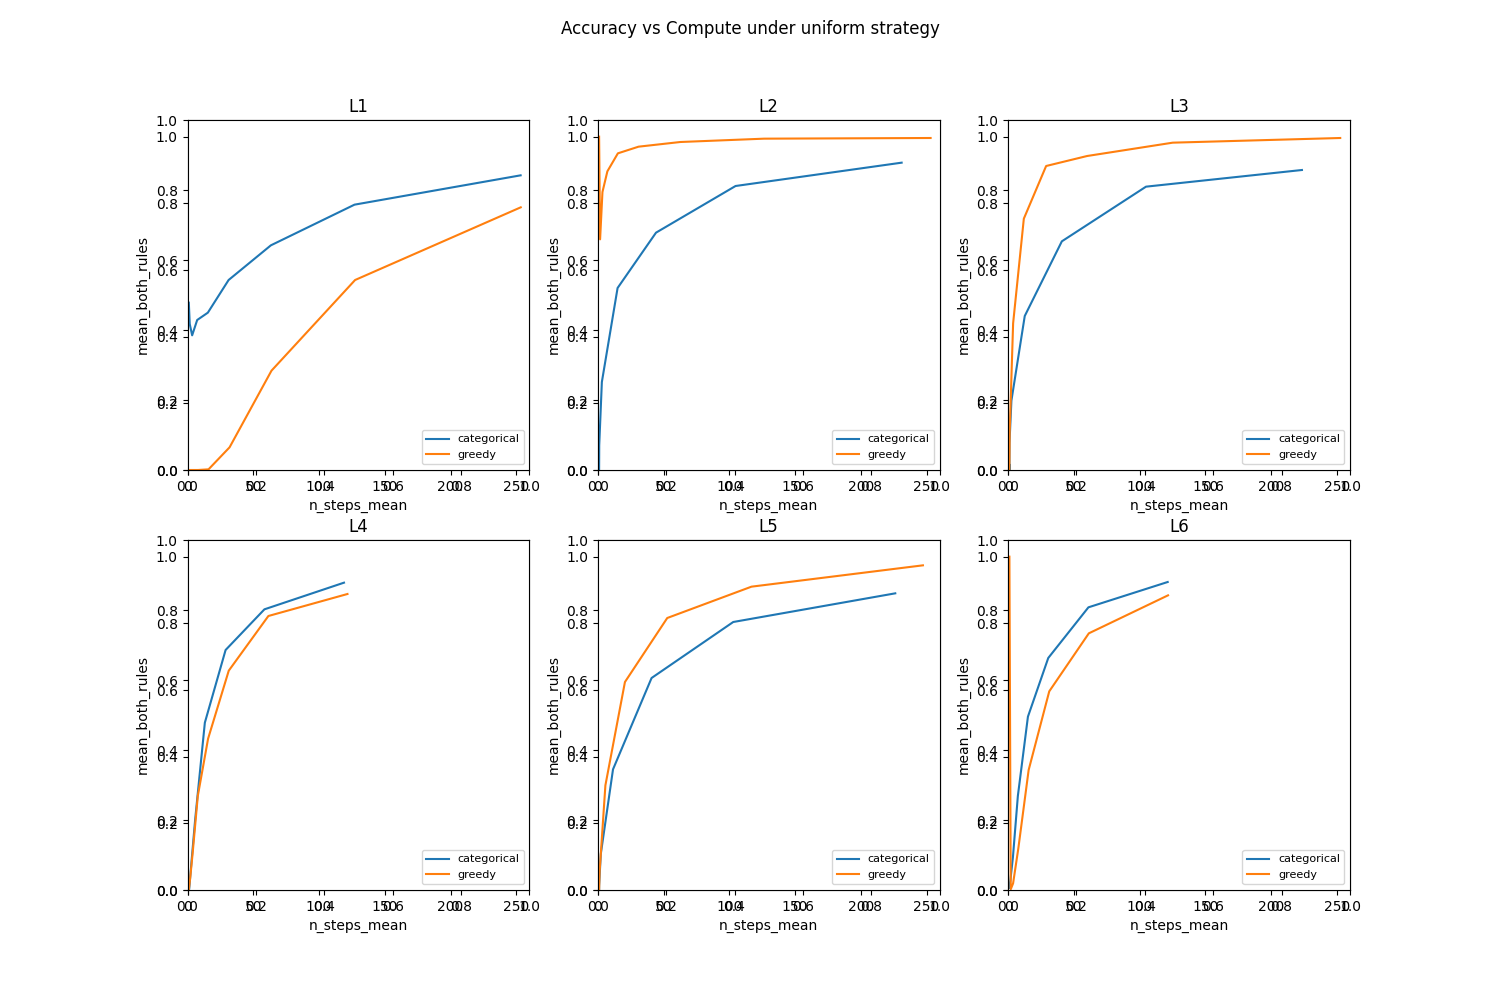
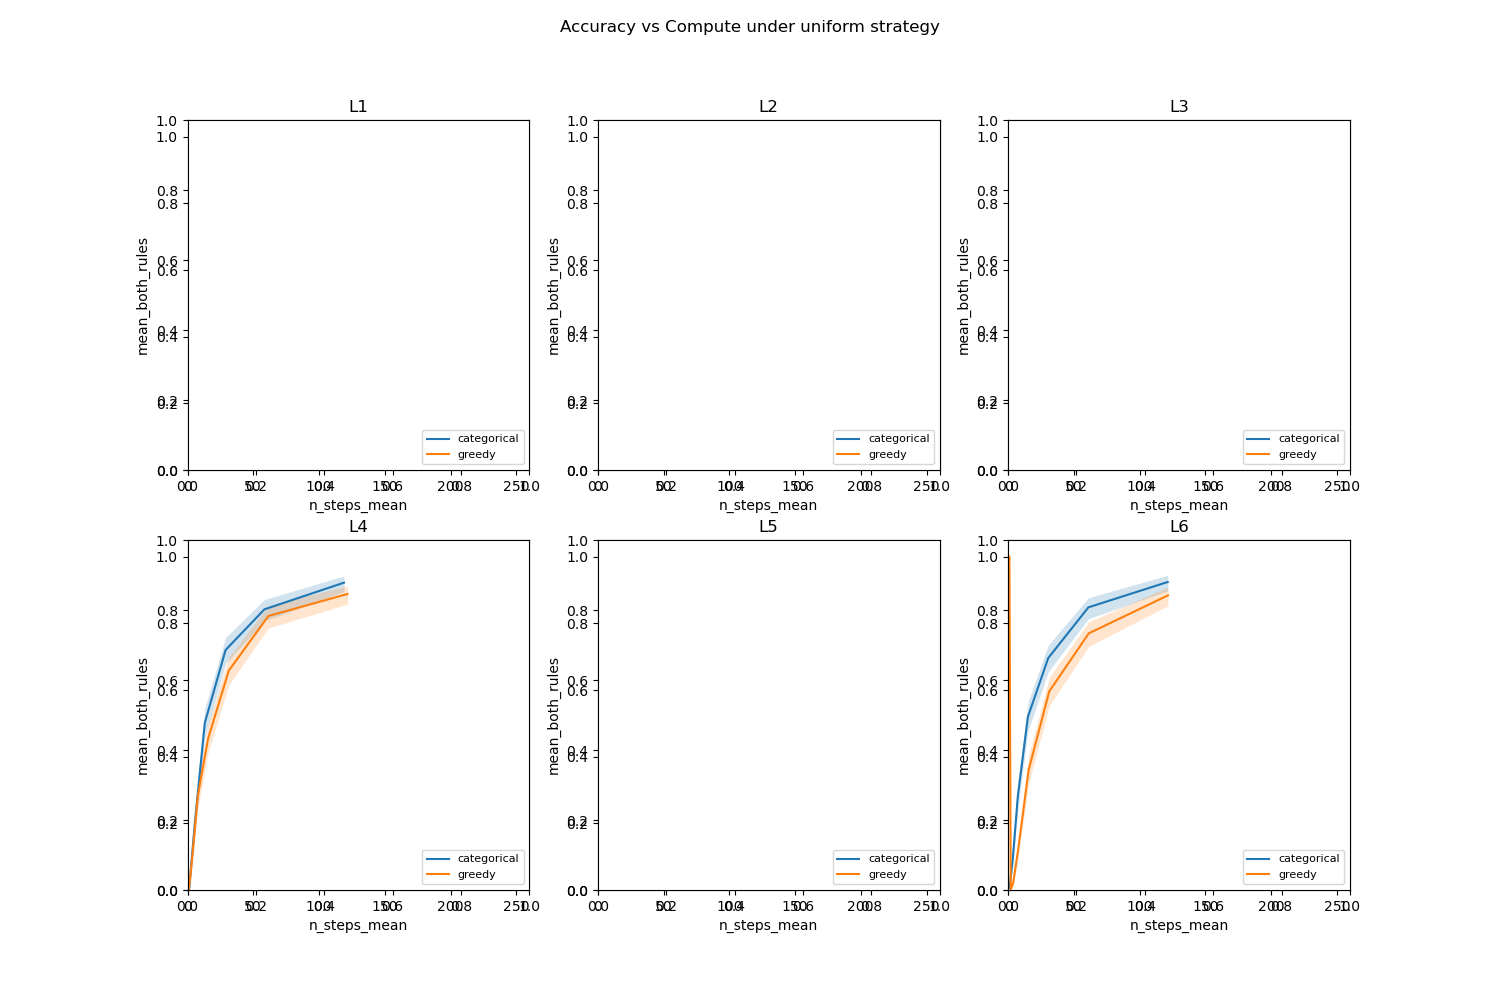
Statistical sign.

diff --git a/src/analyse.py b/src/analyse.py
@@ -26,6 +26,36 @@ GRAMMAR_MAPPING = {
     "not_nested_parentheses_and_brackets": "L6"
 }
 
+def wilson_ci(k, n, z=1.96):
+    """95% Wilson score interval for a binomial proportion k/n."""
+    if n <= 0:
+        return float('nan'), float('nan')
+    phat   = k / n
+    denom  = 1.0 + z * z / n
+    center = (phat + z * z / (2 * n)) / denom
+    half   = (z / denom) * np.sqrt(phat * (1 - phat) / n + z * z / (4 * n * n))
+    return center - half, center + half
+
+
+def add_wilson_ci(df, n_per_rep=100, stat='both_rules'):
+    """Add ci_low_<stat>/ci_high_<stat> columns (Wilson 95%) if not already present.
+
+    Pools all generations in a cell: k correct out of n total, where n is the
+    sweep's n_eval_total column when available, else reconstructed as
+    n_reps * n_per_rep (per-rep sample count, 100 in these runs).
+    """
+    lo_col, hi_col = f'ci_low_{stat}', f'ci_high_{stat}'
+    if lo_col in df.columns and hi_col in df.columns:
+        return df
+    df = df.copy()
+    n_total = df['n_eval_total'] if 'n_eval_total' in df.columns else df['n_reps'] * n_per_rep
+    k = (df[f'mean_{stat}'] * n_total).round()
+    cis = [wilson_ci(ki, ni) for ki, ni in zip(k, n_total)]
+    df[lo_col] = [c[0] for c in cis]
+    df[hi_col] = [c[1] for c in cis]
+    return df
+
+
 def monotonicity_plot(name='monotonicity_dyck_grammars.png'):
     random.seed(42)
     # make a line plot with 4 subplots (2x2):
@@ -134,19 +164,23 @@ def plot_accuracy_vs_compute_uniform(df):
         plt.savefig(f"./x_clean_figures/{id}.png")
         plt.clf()  # Clear the figure for the next plot
 
-def plot_categorical_and_greedy(df):
+def plot_categorical_and_greedy(df, n_per_rep=100):
+    df = add_wilson_ci(df, n_per_rep=n_per_rep)
     plt.subplots(2, 3, figsize=(15, 10))
     grammar_positions = [(0, 0), (0, 1), (0, 2), (1, 0), (1, 1), (1, 2)]
-    
+
     for grammar in GRAMMARS:
         pos = grammar_positions[GRAMMARS.index(grammar)]
         ax = plt.subplot2grid((2, 3), pos)
-        
+
         decoder = 'uniform'
         for sampler in SAMPLING_STRATEGIES:
             selected = df[(df.grammar == grammar) & (df.strategy == decoder) & (df.sampling_strategy == sampler)]
             selected = selected.sort_values(by='n_steps_mean')
-            ax.plot(selected.n_steps_mean, selected.mean_both_rules, label=f"{sampler}")
+            line, = ax.plot(selected.n_steps_mean, selected.mean_both_rules, label=f"{sampler}")
+            ax.fill_between(selected.n_steps_mean,
+                            selected.ci_low_both_rules, selected.ci_high_both_rules,
+                            color=line.get_color(), alpha=0.2, linewidth=0)
     
         id = f"clean_figure_greedy_and_categorical_{decoder}"
         ax.set_title(f"{GRAMMAR_MAPPING[grammar]}")
@@ -210,6 +244,9 @@ def main():
     # get file as argument
     parser = argparse.ArgumentParser()
     parser.add_argument('--file', type=str, required=True, help='Path to the CSV file')
+    parser.add_argument('--n-per-rep', type=int, default=100,
+                        help='Per-rep eval sample count, used to reconstruct Wilson CIs '
+                             'when the CSV lacks an n_eval_total column (default 100).')
     args = parser.parse_args()
     # folder in parent directory, resolve path
     resolved_path = Path(args.file).parent.resolve()
@@ -222,8 +259,8 @@ def main():
     
     # plot_accuracy_vs_compute(df)
     # plot_accuracy_vs_compute_uniform(df)
-    plot_categorical_and_greedy(df)
-    
+    plot_categorical_and_greedy(df, n_per_rep=args.n_per_rep)
+
     exit(0)
     
     # Q1: Does AR actually hit 1.0 on every grammar? CONFRIMED

diff --git a/src/oracle/eval_oracle_T_sweep.py b/src/oracle/eval_oracle_T_sweep.py
@@ -255,6 +255,22 @@ def evaluate_cell(*, oracle, grammar, eval_dataset, strategy, sampler,
 # Aggregation
 # ---------------------------------------------------------------------------
 
+def wilson_ci(k, n, z=1.96):
+    """95% Wilson score interval for a binomial proportion k/n (z=1.96).
+
+    Pooled over all generations in the cell (k correct out of n total), this
+    is a more honest precision estimate than the std across the n_reps reps,
+    which with only ~5 reps is itself very noisy. Returns (lo, hi); NaNs if n==0.
+    """
+    if n <= 0:
+        return float('nan'), float('nan')
+    phat   = k / n
+    denom  = 1.0 + z * z / n
+    center = (phat + z * z / (2 * n)) / denom
+    half   = (z / denom) * np.sqrt(phat * (1 - phat) / n + z * z / (4 * n * n))
+    return center - half, center + half
+
+
 def aggregate_reps(stats_per_rep, n_steps_all):
     if not stats_per_rep:
         out = {f'mean_{n}': float('nan') for n in STATS_NAMES}
@@ -330,6 +346,8 @@ def _build_csv_fields():
     for n in STATS_NAMES:
         fields.append(f'mean_{n}')
         fields.append(f'std_{n}')
+    fields.extend([f'n_eval_total',
+                   f'ci_low_{PRIMARY_STAT}', f'ci_high_{PRIMARY_STAT}'])
     fields.extend(['n_steps_mean', 'n_steps_max', 'deterministic', 'elapsed_s'])
     fields.extend(DIVERSITY_FIELDS)
     return fields
@@ -459,6 +477,12 @@ def _process_cell(cell_spec, shared_cfg):
     agg = aggregate_reps(stats_per_rep, all_n_steps)
     det = is_deterministic(strategy, sampler)
 
+    # Wilson 95% CI on the primary stat, pooled over all generations in the cell.
+    n_per_rep   = cached['eval_ds'].data.shape[0]
+    n_eval_total = int(n_per_rep) * len(stats_per_rep)
+    k_correct    = int(round(agg[f'mean_{PRIMARY_STAT}'] * n_eval_total))
+    ci_lo, ci_hi = wilson_ci(k_correct, n_eval_total)
+
     div_metrics, div_dist = {}, None
     if hasattr(cached['grammar'], 'diversity_metrics'):
         try:
@@ -476,6 +500,9 @@ def _process_cell(cell_spec, shared_cfg):
         'eb_gamma':          float(pv) if strategy == 'ebsampler' else '',
         'T':                 T, 'n_reps': n_reps, 'deterministic': det,
         'elapsed_s':         round(elapsed, 2),
+        'n_eval_total':      n_eval_total,
+        f'ci_low_{PRIMARY_STAT}':  round(ci_lo, 6),
+        f'ci_high_{PRIMARY_STAT}': round(ci_hi, 6),
         'n_steps_mean':      round(agg['n_steps_mean'], 4),
         'n_steps_max':       agg['n_steps_max'],
     }
